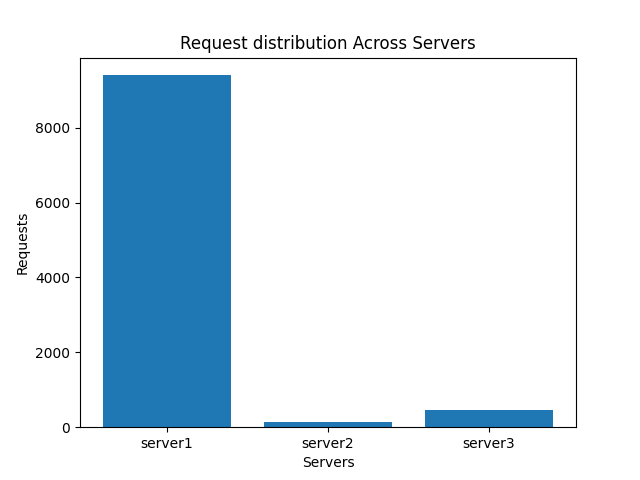
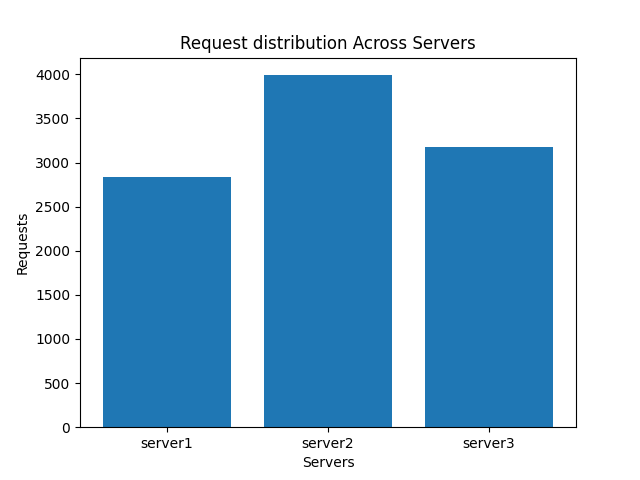
fix: update consistent hash to use quadratic probing (#3)

diff --git a/TASK_3/consistent_hash.py b/TASK_3/consistent_hash.py
@@ -4,7 +4,7 @@ class ConsistentHashRing:
         self.slots = slots
         self.virtual_nodes = virtual_nodes
         self.hash_ring = [None] * slots
-        self.server_map = {}  # {slot: server_id}
+        self.server_map = {}
         self._initialize_ring()
 
     def H(self, i):
@@ -19,20 +19,24 @@ class ConsistentHashRing:
     def _initialize_ring(self):
         for server_id, server_address in enumerate(self.servers):
             for replica_id in range(self.virtual_nodes):
-                slot = self.Phi(server_id, replica_id)
-                original_slot = slot
+                original_slot = self.Phi(server_id, replica_id)
+                slot = original_slot
+                i = 1
                 while self.hash_ring[slot] is not None:
-                    slot = (slot + 1) % self.slots  # Linear probing
-                    if slot == original_slot:
+                    slot = (original_slot + i + (i * i)) % self.slots  # Quadratic probing
+                    i += 1
+                    if i >= self.slots:
                         raise Exception("Hash ring is full.")
                 self.hash_ring[slot] = server_address
                 self.server_map[slot] = server_address
 
     def get_server_for_request(self, request_id):
-        slot = self.H(request_id)
-        original_slot = slot
+        original_slot = self.H(request_id)
+        slot = original_slot
+        i = 1
         while self.hash_ring[slot] is None:
-            slot = (slot + 1) % self.slots
-            if slot == original_slot:
+            slot = (original_slot + i + (i * i)) % self.slots  # Quadratic probing
+            i += 1
+            if i >= self.slots:
                 return None
         return self.hash_ring[slot]

diff --git a/TASK_4/consistent_hash.py b/TASK_4/consistent_hash.py
@@ -5,7 +5,7 @@ class ConsistentHashRing:
         self.slots = slots
         self.virtual_nodes = virtual_nodes
         self.hash_ring = [None] * slots
-        self.server_map = {}  # {slot: server_id}
+        self.server_map = {}
         self._initialize_ring()
 
     def H(self, i):
@@ -20,20 +20,24 @@ class ConsistentHashRing:
     def _initialize_ring(self):
         for server_id, server_address in enumerate(self.servers):
             for replica_id in range(self.virtual_nodes):
-                slot = self.Phi(server_id, replica_id)
-                original_slot = slot
+                original_slot = self.Phi(server_id, replica_id)
+                slot = original_slot
+                i = 1
                 while self.hash_ring[slot] is not None:
-                    slot = (slot + 1) % self.slots  # Linear probing
-                    if slot == original_slot:
+                    slot = (original_slot + i + (i * i)) % self.slots  # Quadratic probing
+                    i += 1
+                    if i >= self.slots:
                         raise Exception("Hash ring is full.")
                 self.hash_ring[slot] = server_address
                 self.server_map[slot] = server_address
 
     def get_server_for_request(self, request_id):
-        slot = self.H(request_id)
-        original_slot = slot
+        original_slot = self.H(request_id)
+        slot = original_slot
+        i = 1
         while self.hash_ring[slot] is None:
-            slot = (slot + 1) % self.slots
-            if slot == original_slot:
+            slot = (original_slot + i + (i * i)) % self.slots  # Quadratic probing
+            i += 1
+            if i >= self.slots:
                 return None
         return self.hash_ring[slot]

diff --git a/TASK_2/consistent_hash.py b/TASK_2/consistent_hash.py
@@ -4,7 +4,7 @@ class ConsistentHashRing:
         self.slots = slots
         self.virtual_nodes = virtual_nodes
         self.hash_ring = [None] * slots
-        self.server_map = {}  # {slot: server_id}
+        self.server_map = {}
         self._initialize_ring()
 
     def H(self, i):
@@ -19,20 +19,24 @@ class ConsistentHashRing:
     def _initialize_ring(self):
         for server_id in range(self.num_servers):
             for replica_id in range(self.virtual_nodes):
-                slot = self.Phi(server_id, replica_id)
-                original_slot = slot
+                original_slot = self.Phi(server_id, replica_id)
+                slot = original_slot
+                i = 1
                 while self.hash_ring[slot] is not None:
-                    slot = (slot + 1) % self.slots  # Linear probing
-                    if slot == original_slot:
+                    slot = (original_slot + i + (i * i)) % self.slots  # Quadratic probing
+                    i += 1
+                    if i >= self.slots:
                         raise Exception("Hash ring is full.")
                 self.hash_ring[slot] = f"Server-{server_id}"
                 self.server_map[slot] = f"Server-{server_id}"
 
     def get_server_for_request(self, request_id):
-        slot = self.H(request_id)
-        original_slot = slot
+        original_slot = self.H(request_id)
+        slot = original_slot
+        i = 1
         while self.hash_ring[slot] is None:
-            slot = (slot + 1) % self.slots
-            if slot == original_slot:
+            slot = (original_slot + i + (i * i)) % self.slots  # Quadratic probing
+            i += 1
+            if i >= self.slots:
                 return None
         return self.hash_ring[slot]
